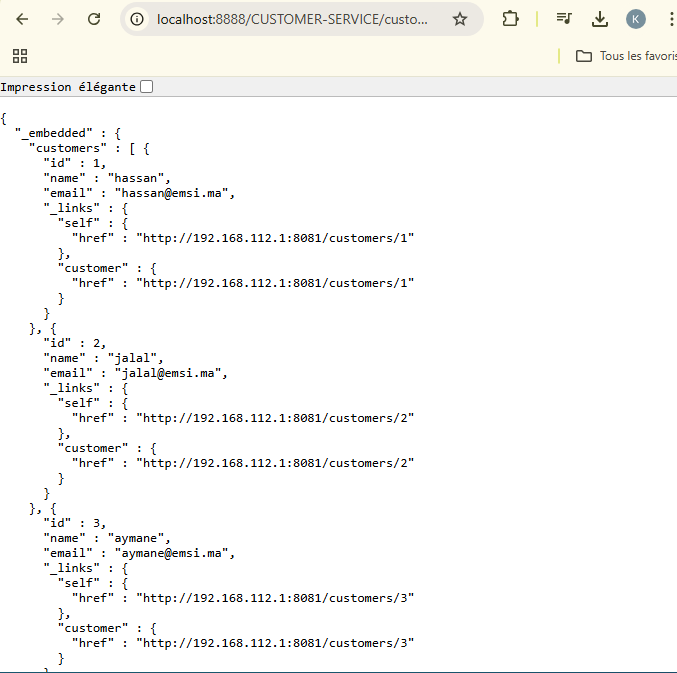
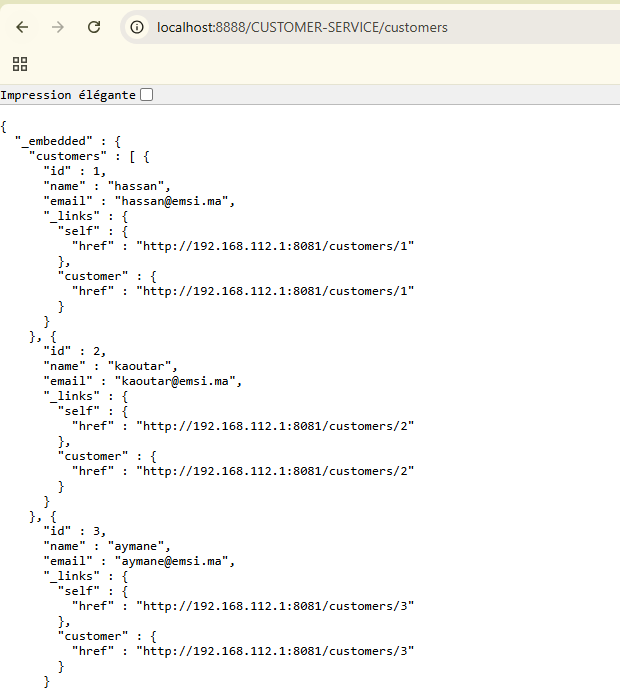
Description des modifications effectuées

diff --git a/customer-service/src/main/java/ma/emsi/customerservice/CustomerServiceApplication.java b/customer-service/src/main/java/ma/emsi/customerservice/CustomerServiceApplication.java
@@ -27,7 +27,7 @@ public class CustomerServiceApplication {
           customerRepository.saveAll(
                   List.of(
                           Customer.builder().name("hassan").email("hassan@emsi.ma").build(),
-                          Customer.builder().name("jalal").email("jalal@emsi.ma").build(),
+                          Customer.builder().name("kaoutar").email("kaoutar@emsi.ma").build(),
                           Customer.builder().name("aymane").email("aymane@emsi.ma").build()
                   )
           );

diff --git a/README.md b/README.md
@@ -2,7 +2,7 @@
 <img src="screenshoot/customer.PNG">
 <img src="screenshoot/product.PNG">
 <img src="screenshoot/eureka.PNG">
-<img src="screenshoot/custmerangular.PNG">
+<img src="screenshoot/customere.PNG">
 <img src="screenshoot/angularproduct.PNG">
 <img src="screenshoot/orderdetailangu.PNG">
 <img src="screenshoot/deatilangular.PNG">
